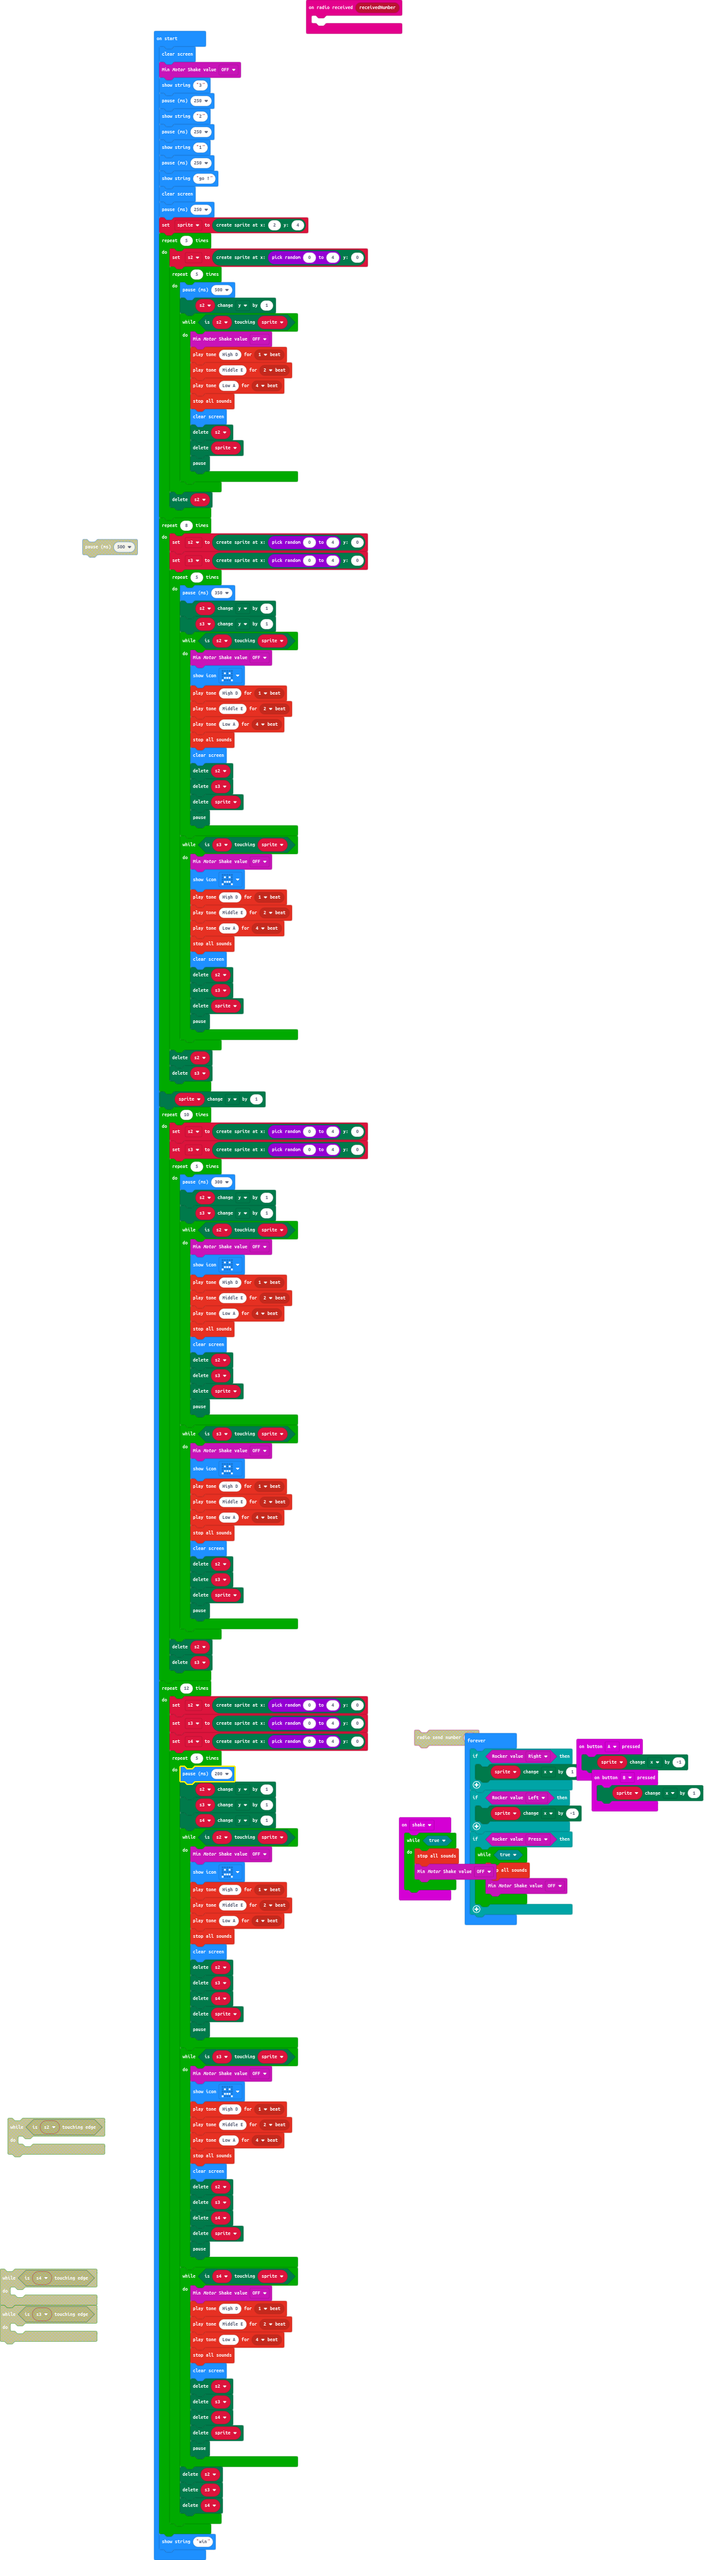
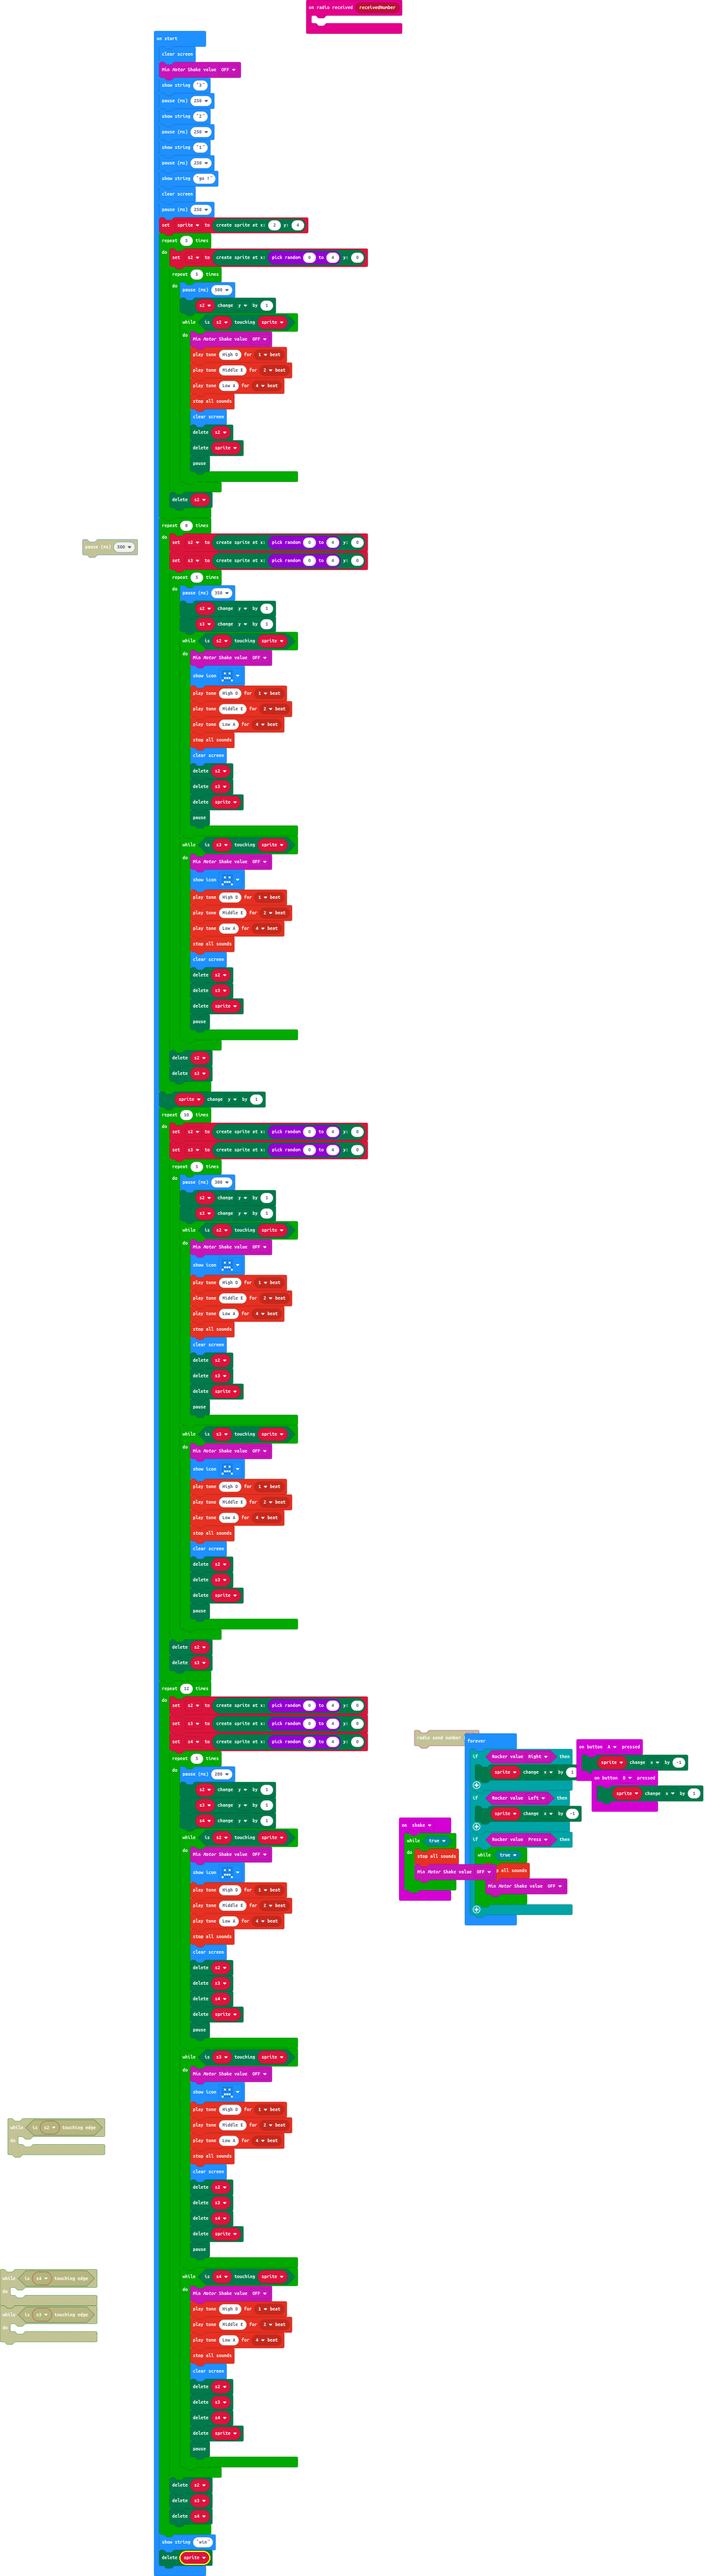
Update main.blocks, main.ts

diff --git a/main.ts b/main.ts
@@ -173,12 +173,13 @@ for (let index = 0; index < 12; index++) {
             sprite.delete()
             game.pause()
         }
-        s2.delete()
-        s3.delete()
-        s4.delete()
     }
+    s2.delete()
+    s3.delete()
+    s4.delete()
 }
 basic.showString("win")
+sprite.delete()
 basic.forever(function () {
     if (GHBit.Rocker(GHBit.enRocker.Right)) {
         sprite.change(LedSpriteProperty.X, 1)
